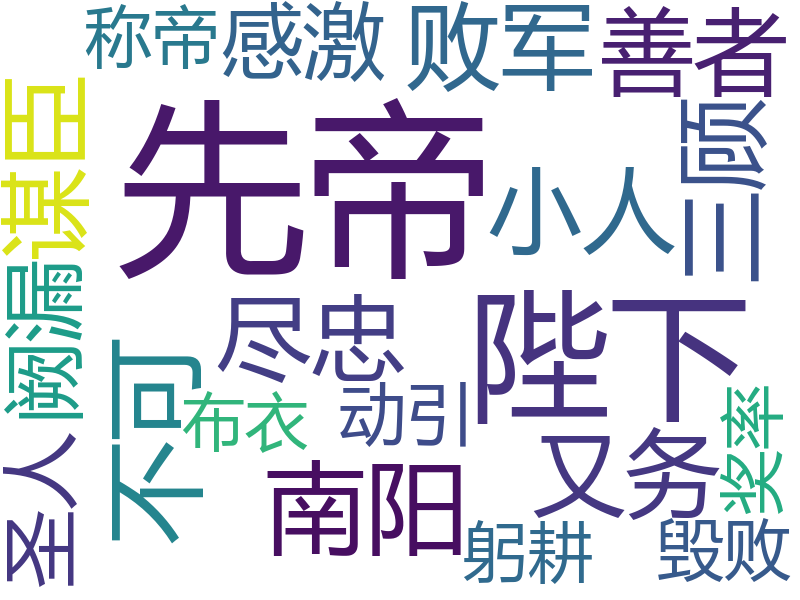
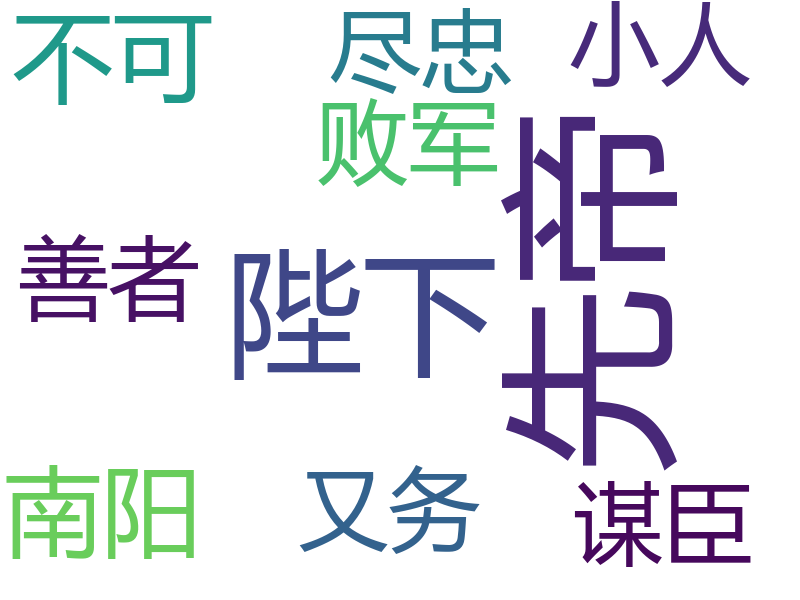
third commit

diff --git a/simplewordcloud/WordFrequency.py b/simplewordcloud/WordFrequency.py
@@ -1,16 +1,17 @@
 # -*- coding: utf-8 -*-
+import jieba
 from matplotlib import pyplot as plt
 from wordcloud import WordCloud
 import collections
 with open('出师表.txt', encoding="utf-8") as f:
     content = f.read()
-word_counts = collections.Couter(content)
+    txt=jieba.cut(content)
 wc = WordCloud(font_path='msyh.ttc',
              background_color='white',
              max_words=100,
              max_font_size=100,
              width=1000,height=800,margin=2)
-wc.generate_from_frequencies(content)
+wc.generate_from_frequencies(txt)
 plt.imshow(wc, interpolation="bilinear")
 plt.axis("off")
 plt.figure()

diff --git a/simplewordcloud/ChineseAndEnglishWordCloud.py b/simplewordcloud/ChineseAndEnglishWordCloud.py
@@ -3,8 +3,9 @@ import wordcloud
 import jieba.analyse
 f = open('出师表.txt',encoding='utf-8')
 txt = f.read()
-keywords1=jieba.analyse.textrank(txt)
-print('关键词提取'+"/".join(keywords1))#有时不确定提取多少关键词，可利用总词的百分比
+keywords1=jieba.analyse.textrank(txt,topK=10,withWeight=True)
+print(keywords1)
+#print('关键词提取'+"/".join(keywords1))#有时不确定提取多少关键词，可利用总词的百分比
 # print('总词数{}'.format(len(list(jieba.cut(txt)))))
 # txtList = jieba.lcut(txt)
 # print(txtList)

diff --git a/simplewordcloud/Chinese.py b/simplewordcloud/Chinese.py
@@ -1,6 +1,6 @@
 # -*- coding: utf-8 -*-
 import jieba.analyse
-f = open('1.txt',encoding='utf-8')
+f = open('出师表.txt',encoding='utf-8')
 txt = f.read()
-keywords = jieba.analyse.extract_tags(txt, topK=5, withWeight=True, allowPOS=())
+keywords = jieba.analyse.extract_tags(txt, topK=10, withWeight=True, allowPOS=())
 print(keywords)
